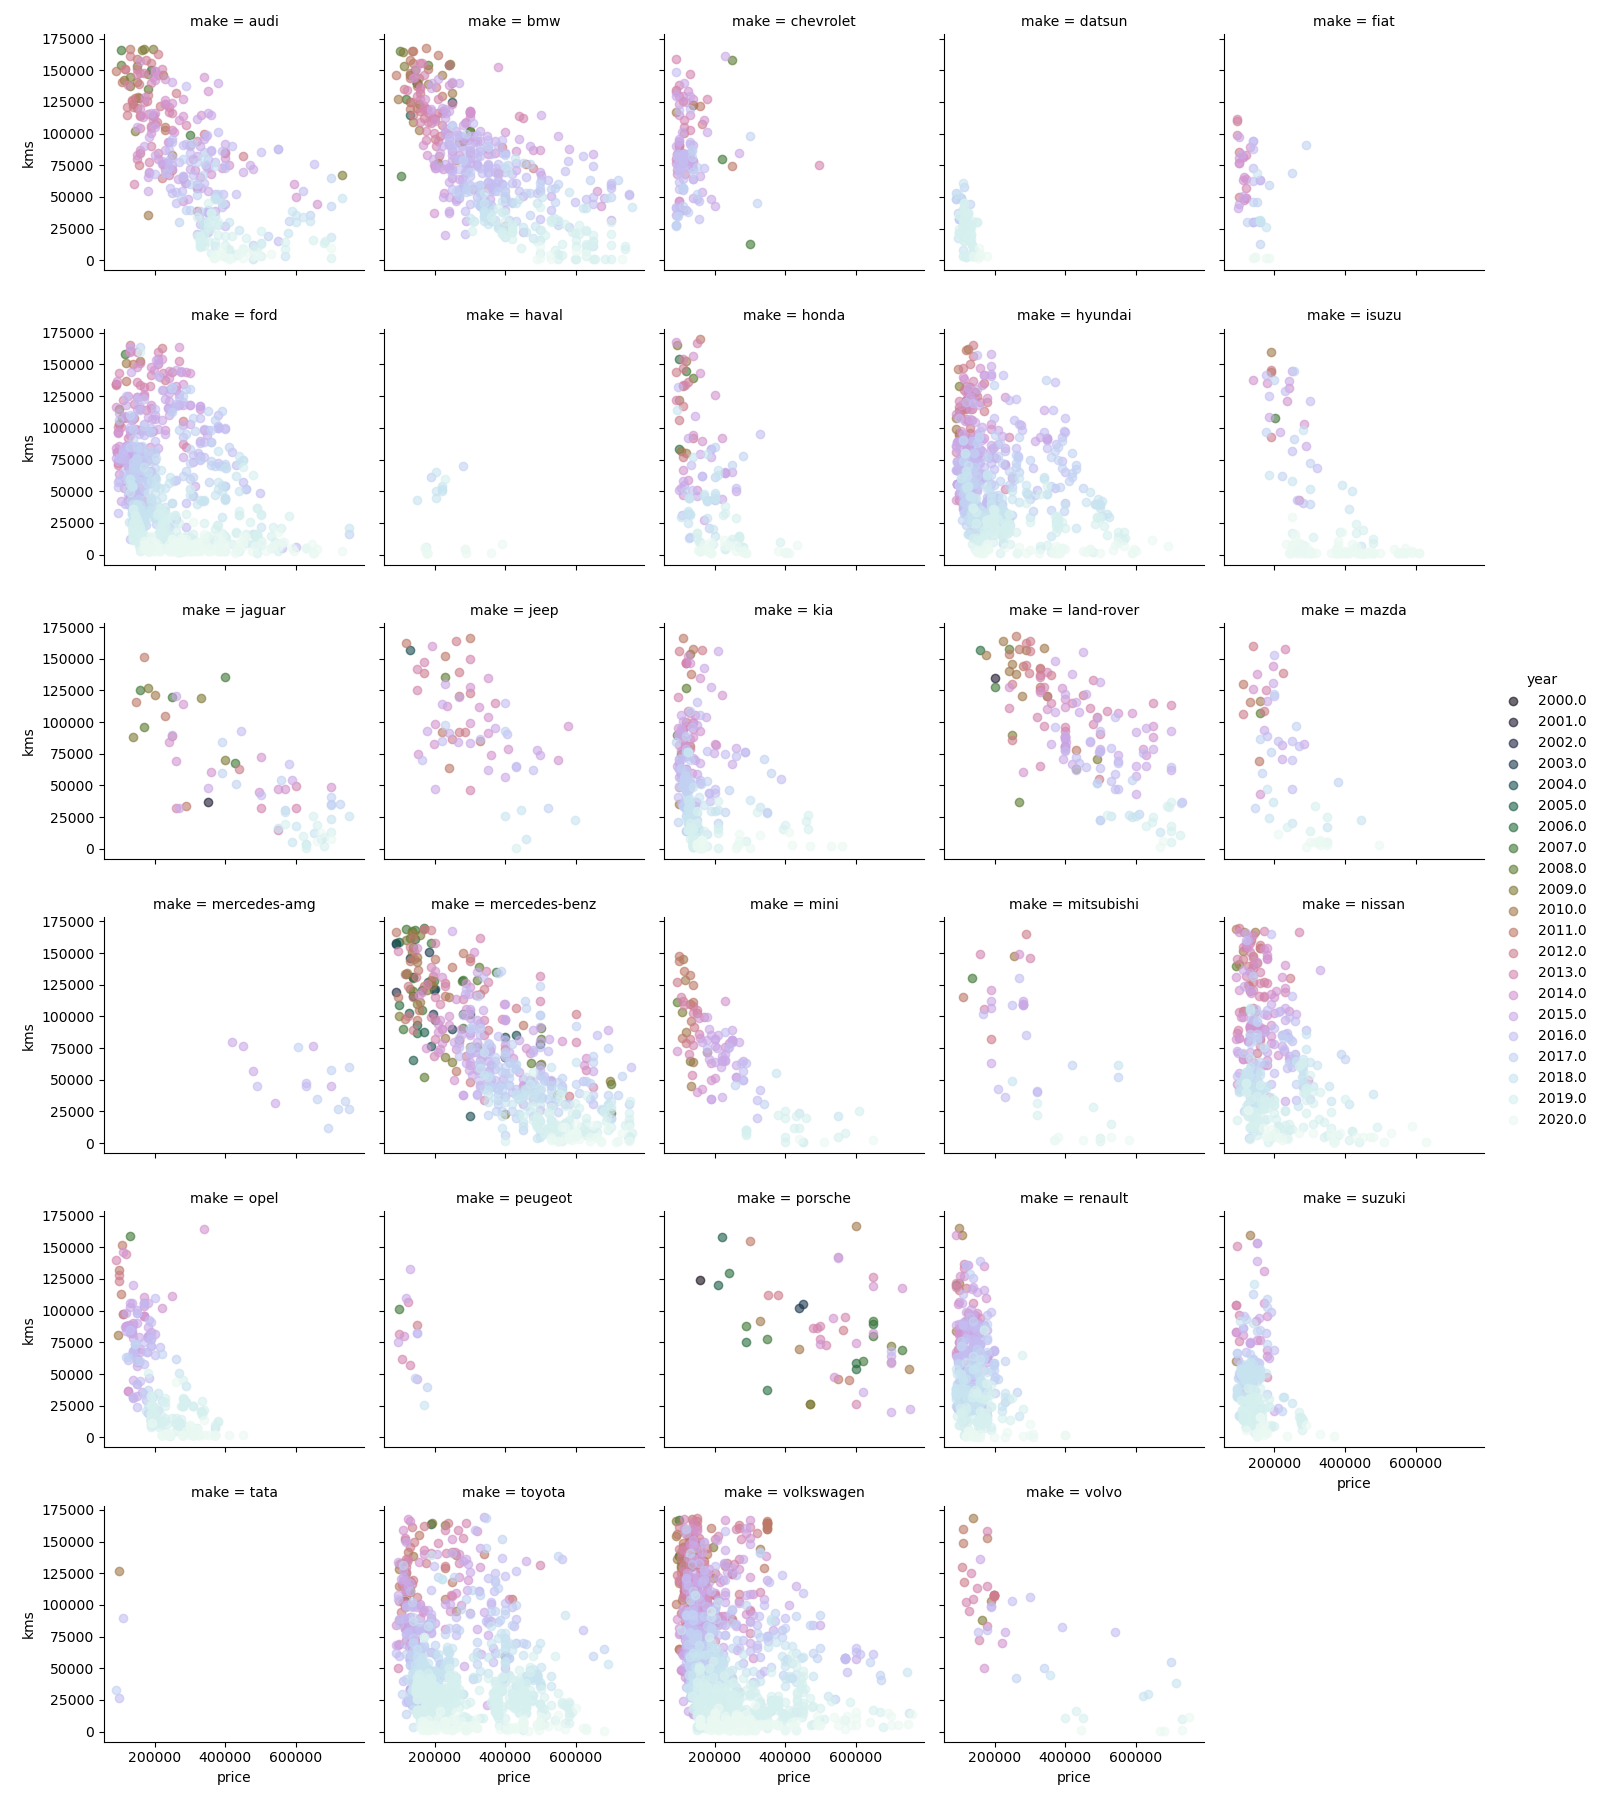
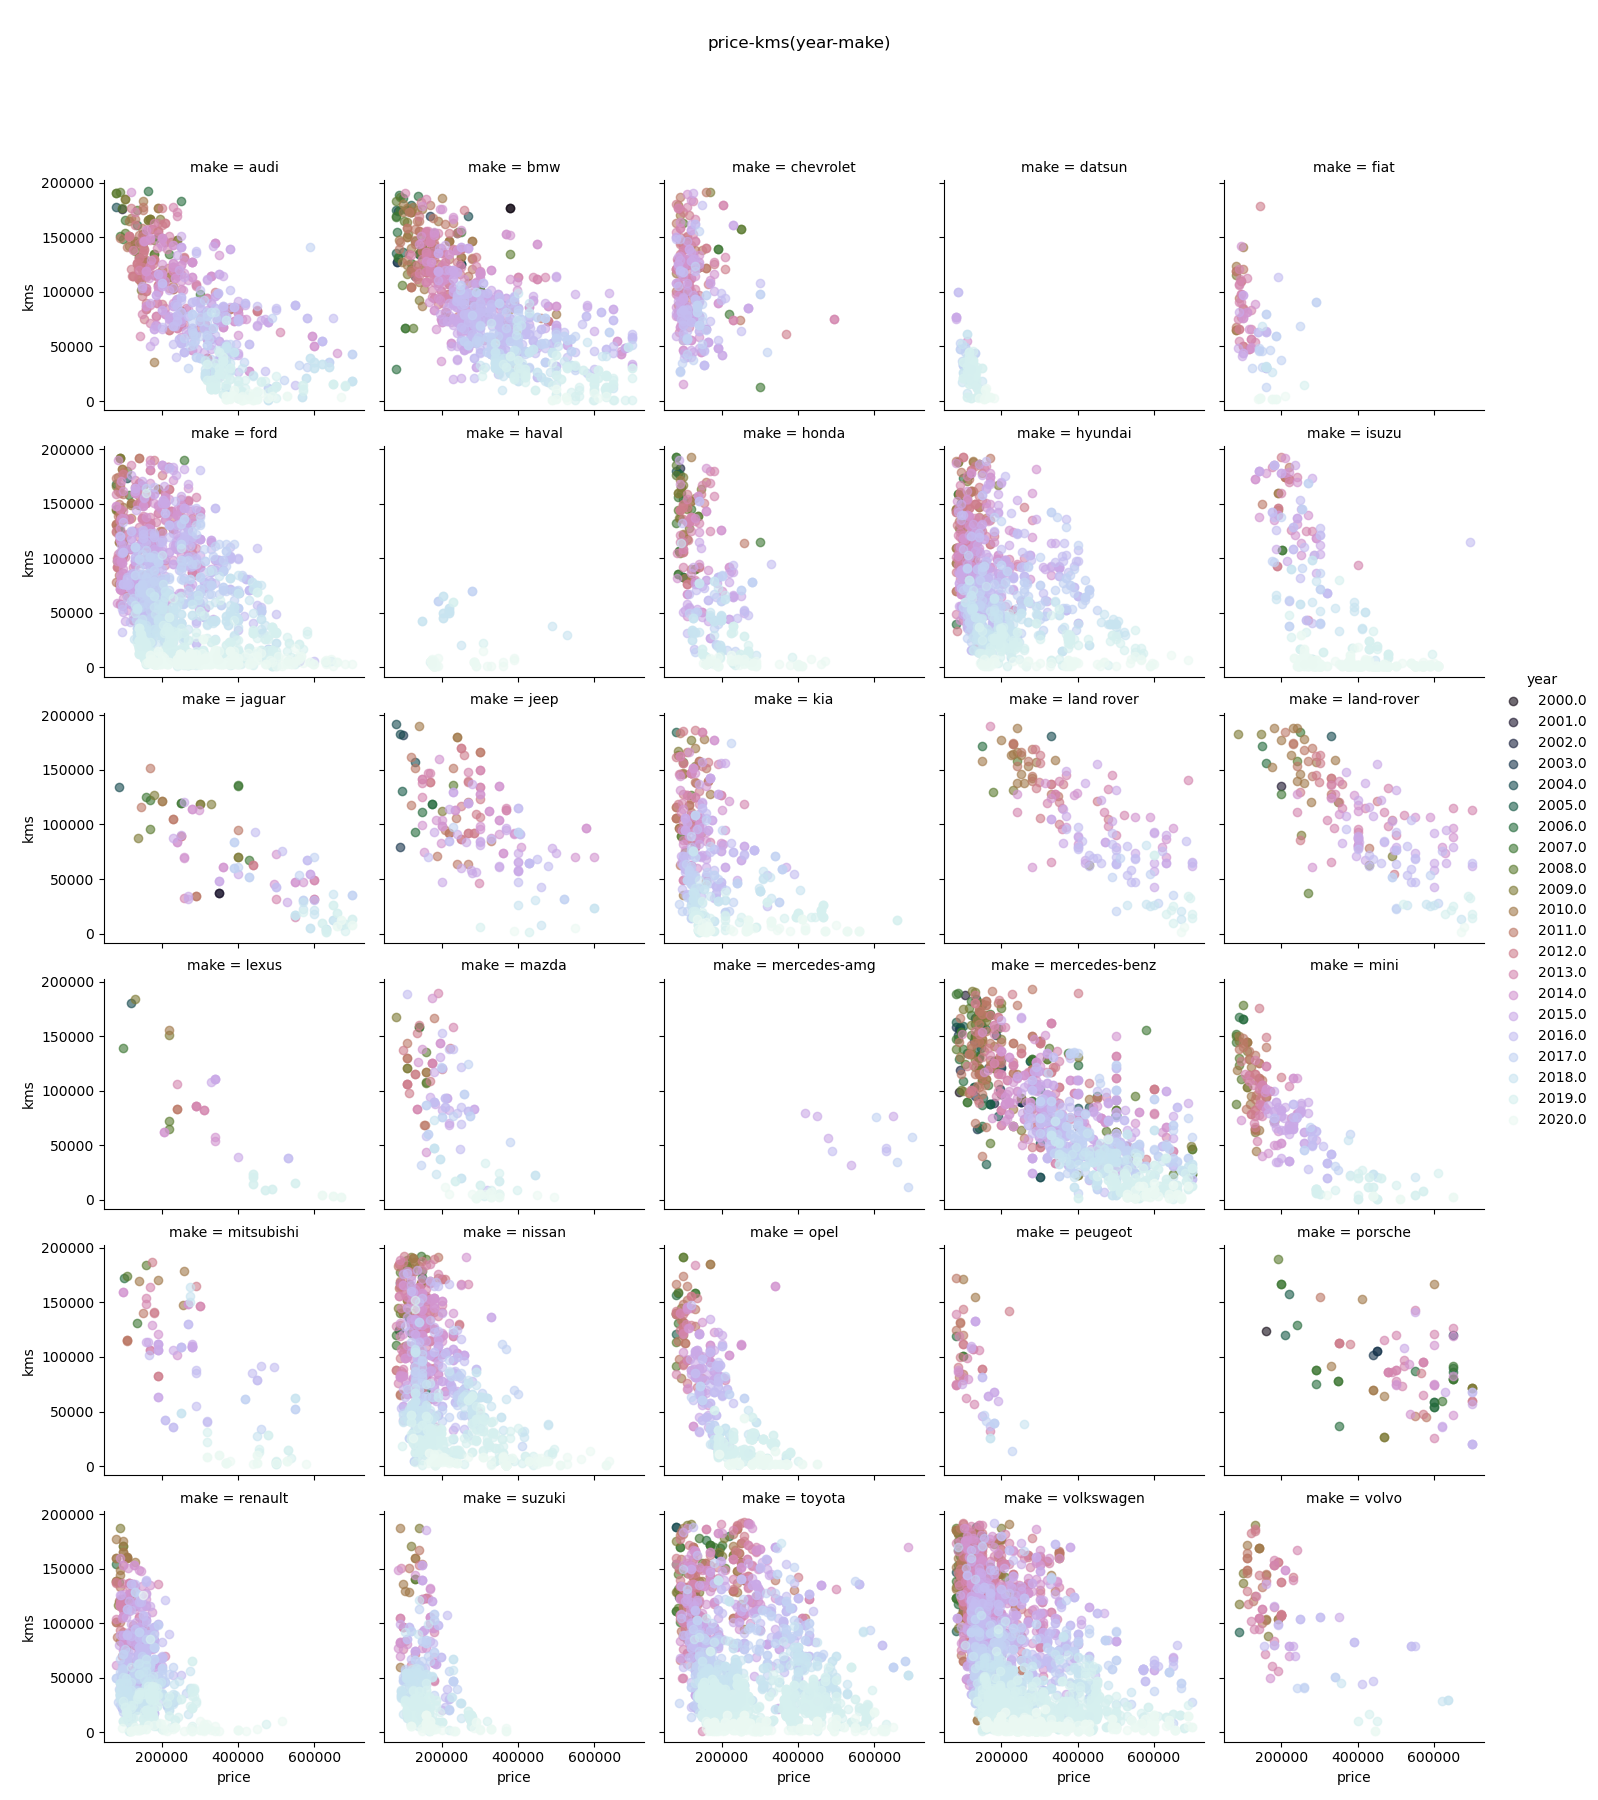
Readme changes

diff --git a/eda.py b/eda.py
@@ -26,7 +26,6 @@ print('done')
 
 def main():
     df = calc_derivatives(join_together(PICKLES))
-    # df = calc_derivatives(pd.read_pickle(PICKLE_PATH))
     low_zar, high_zar = df['price'].quantile([0.05, 0.95]).to_list()
     low_kms, high_kms = df['kms'].quantile([0.05, 0.95]).to_list()
     top_makes = df['make'].value_counts()[:30].index.to_list()
@@ -36,13 +35,13 @@ def main():
         (df.kms <= high_kms) &
         (df.kms >= low_kms) &
         (df.year >= 2000) &
-        (df['make'].isin(['mercedes-benz']))
+        (df['make'].isin(top_makes))
         ]
     df['year'] = df['year'].astype('category')
     x = 'price'
     y = 'kms'
     hue = 'year'
-    facet = 'model'
+    facet = 'make'
     df[facet] = df[facet].cat.remove_unused_categories()
     g = sns.FacetGrid(df, col=facet, col_wrap=5, palette='cubehelix', hue=hue)
     g.map(plt.scatter, x, y, alpha=0.6)
@@ -50,6 +49,8 @@ def main():
     plt.subplots_adjust(top=0.9)
     g.fig.suptitle(f'{x}-{y}({hue}-{facet})')
     plt.savefig(f'{x}-{y}({hue}-{facet})')
+
+    # df = df[df['price'] >= 1_000_000]
 
     # df.sort_values('price')[useful]
 
@@ -99,6 +100,55 @@ def plot_each_make():
             g.fig.suptitle(f'{make.title()})')
             plt.savefig(f'per_make/{make}-{x}-{y}({hue}-{facet})')
 
+def plot_expensive():
+    expensives = [
+        'jaguar',
+        'porsche',
+        'mercedes-amg',
+        'bmw',
+        'ferrari',
+        'mercedes-benz',
+    ]
+    df = calc_derivatives(join_together(PICKLES))
+    df = df[(df['make'].isin(expensives)) &
+            (df['kms'] <= 500_000)]
+    df['year'] = df['year'].astype('category')
+    x = 'price'
+    y = 'kms'
+    hue = 'year'
+    facet = 'make'
+    df[facet] = df[facet].cat.remove_unused_categories()
+    g = sns.FacetGrid(df, col=facet, col_wrap=2, palette='cubehelix', hue=hue)
+    g.map(plt.scatter, x, y, alpha=0.6)
+    g.add_legend()
+    plt.subplots_adjust(top=0.9)
+    g.fig.suptitle(f'{x}-{y}({hue}-{facet}) ZAR >= 1000000')
+    plt.savefig(f'{x}-{y}({hue}-{facet}) ZAR >= 1000000')
+
+def plot_heavy_duty():
+    makes = [
+        'isuzu',
+        'land-rover',
+        'land rover',
+        'jeep',
+    ]
+    df = calc_derivatives(join_together(PICKLES))
+    df = df[(df['make'].isin(makes)) &
+            (df['price'] <= 1_500_000 ) &
+            (df['kms'] <= 400_000 )
+            ]
+    df['year'] = df['year'].astype('category')
+    x = 'price'
+    y = 'kms'
+    hue = 'year'
+    facet = 'make'
+    df[facet] = df[facet].cat.remove_unused_categories()
+    g = sns.FacetGrid(df, col=facet, col_wrap=2, palette='cubehelix', hue=hue)
+    g.map(plt.scatter, x, y, alpha=0.6)
+    g.add_legend()
+    plt.subplots_adjust(top=0.9)
+    g.fig.suptitle(f'{x}-{y}({hue}-{facet}) heavy duty')
+    plt.savefig(f'price-kms(year-make)heavy_duty.png')
 
 def join_together(paths):
     dfs = []
@@ -125,26 +175,11 @@ def join_together(paths):
     df[categoricals] = df[categoricals].astype('category')
     return df
 
-
 def calc_derivatives(df):
     df['kms_per_year'] = df['kms'] / (2021 - df['year'])
     df['zar_100km'] = df['price'] * df['kms'] / 100.0
     return df
 
-
-def parse_variants():
-    variants = [str(variant).lower() for variant in df.variant.unique().to_list()]
-    numeric_variants = [variant for variant in variants if re.search(r'(v)?\d+(\.\d+)?(-l)?', variant)]
-    non_numeric_variants = [variant for variant in variants if not re.search(r'(v)?\d+(\.\d+)?(-l)?', variant)]
-    def assign_variant(title):
-        variants = [variant for variant in non_numeric_variants if re.search(f'\s+{variant}\s+')]
-        if not variants:
-            variants = [variant for variant in numeric_variants if variant in title.lower()]
-        if len(variants) > 1:
-            print(title, variants)
-        return variants[0] if variants else None
-
-    df['variant_parsed'] = df['title'].apply(assign_variant)
 
 
 if __name__ == '__main__':

diff --git a/README.md b/README.md
@@ -9,33 +9,104 @@ South African second hand cars market (with focus on the Western Cape),
 as well as exploratory scripts that look into price prediction (`ml.py`) or just exploratory
 data analysis of the collected data (`eda.py`). 
 
+Currently data is collected about 
+23 663 second hand cars for sale in the Western Cape.
+
 ## Graphs
 All extreme datapoints were omitted, to aid in the analysis 
 of the majority of the cars, and to ignore possible mistakes made
 when the car was put up on sale.
 ### Price vs Kilometers travelled, by make and year
-This one is fascinating. Most makes have the expected negative relationship, 
-(except _Porsche_, which seems to have no relationship).
+This one is fascinating. Most makes have the expected negative relationship,
+except for the luxury cars like _Porsche_:
 ![](price-kms(year-make).png)
+
+However, just looking at the luxury makes, it's pretty clear that they
+also heavily depreciate in value as they age, it's just that they're in
+a whole different ballgame in terms of price:
+![](price-kms(year-make)ZAR>=1000000.png)
+
+
+You can also see the heavy duty/4x4/off-road cars _really_ lose their value 
+once they're a few years old, probably because potential buyers are wary
+of the heavy use they could have been put through:
+![](price-kms(year-make)heavy_duty.png)
+
+
+### Price vs Kilometers travelled, by _model_ and year
+Looking a bit closer, we can examine how individual models from the
+same manufacturer depreciate over time:
+#### BMW
+![](per_make/bmw-price-kms(year-model).png)
+#### Ford
+![](per_make/ford-price-kms(year-model).png)
+#### Toyota
+![](per_make/toyota-price-kms(year-model).png)
+#### Volkswagen
+![](per_make/volkswagen-price-kms(year-model).png)
 
 
 ## Data summaries
 ```
+
+>>> df.info()
+<class 'pandas.core.frame.DataFrame'>
+RangeIndex: 23663 entries, 0 to 23662
+Data columns (total 18 columns):
+ #   Column        Non-Null Count  Dtype         
+---  ------        --------------  -----         
+ 0   date_updated  23663 non-null  datetime64[ns]
+ 1   fuel_type     20063 non-null  category      
+ 2   kms           23461 non-null  float64       
+ 3   link          23663 non-null  object        
+ 4   make          23609 non-null  category      
+ 5   mmv_string    23578 non-null  object        
+ 6   model         23605 non-null  category      
+ 7   price         23603 non-null  float64       
+ 8   title         23614 non-null  object        
+ 9   transmission  23556 non-null  category      
+ 10  uid           23663 non-null  int64         
+ 11  variant       9451 non-null   category      
+ 12  website       23663 non-null  category      
+ 13  year          23566 non-null  float64       
+ 14  color         14085 non-null  category      
+ 15  province      23663 non-null  category      
+ 16  kms_per_year  23459 non-null  float64       
+ 17  zar_100km     23450 non-null  float64       
+dtypes: category(8), datetime64[ns](1), float64(5), int64(1), object(3)
+memory usage: 2.1+ MB
+
+
 >>> df.describe(include='all') # Some columns omitted for brevity
-       fuel_type           kms        make  model         price  transmission                year  color   kms_per_year     zar_100km
-count      20063  2.346100e+04       23609  23605  2.360300e+04         23556    945123566.000000  14085   23459.000000  2.345000e+04
-unique         6           NaN          76    727           NaN             4     676         NaN    626            NaN           NaN
-top       petrol           NaN  volkswagen   polo           NaN        manual     1.6         NaN  white            NaN           NaN
-freq       14530           NaN        4232   1385           NaN         13468     567         NaN   5406            NaN           NaN
-first        NaN           NaN         NaN    NaN           NaN           NaN     NaN         NaN    NaN            NaN           NaN
-last         NaN           NaN         NaN    NaN           NaN           NaN     NaN         NaN    NaN            NaN           NaN
-mean         NaN  7.012052e+04         NaN    NaN  2.859403e+05           NaN     NaN 2015.576424    NaN   11928.153916  1.422336e+08
-std          NaN  7.052589e+04         NaN    NaN  3.039697e+05           NaN     NaN    4.874987    NaN    7612.631511  1.455108e+08
-min          NaN  0.000000e+00         NaN    NaN  1.300000e+01           NaN     NaN 1934.000000    NaN       0.000000  0.000000e+00
-25%          NaN  1.774500e+04         NaN    NaN  1.439000e+05           NaN     NaN 2014.000000    NaN    7087.533333  4.285221e+07
-50%          NaN  5.262400e+04         NaN    NaN  2.040000e+05           NaN     NaN 2017.000000    NaN   11750.000000  1.055120e+08
-75%          NaN  1.070000e+05         NaN    NaN  3.394950e+05           NaN     NaN 2019.000000    NaN   16000.000000  1.992581e+08
-max          NaN  2.430000e+06         NaN    NaN  8.999999e+06           NaN     NaN 2020.000000    NaN  203000.000000  4.223122e+09
+       fuel_type           kms        make  model         price  \
+count      20063  2.346100e+04       23609  23605  2.360300e+04  \
+unique         6           NaN          76    727           NaN  \
+top       petrol           NaN  volkswagen   polo           NaN  \
+freq       14530           NaN        4232   1385           NaN  \
+first        NaN           NaN         NaN    NaN           NaN  \
+last         NaN           NaN         NaN    NaN           NaN  \
+mean         NaN  7.012052e+04         NaN    NaN  2.859403e+05  \
+std          NaN  7.052589e+04         NaN    NaN  3.039697e+05  \
+min          NaN  0.000000e+00         NaN    NaN  1.300000e+01  \
+25%          NaN  1.774500e+04         NaN    NaN  1.439000e+05  \
+50%          NaN  5.262400e+04         NaN    NaN  2.040000e+05  \
+75%          NaN  1.070000e+05         NaN    NaN  3.394950e+05  \
+max          NaN  2.430000e+06         NaN    NaN  8.999999e+06  \
+
+       transmission                year  color   kms_per_year     zar_100km
+count         23556    945123566.000000  14085   23459.000000  2.345000e+04
+unique            4     676         NaN    626            NaN           NaN
+top          manual     1.6         NaN  white            NaN           NaN
+freq          13468     567         NaN   5406            NaN           NaN
+first           NaN     NaN         NaN    NaN            NaN           NaN
+last            NaN     NaN         NaN    NaN            NaN           NaN
+mean            NaN     NaN 2015.576424    NaN   11928.153916  1.422336e+08
+std             NaN     NaN    4.874987    NaN    7612.631511  1.455108e+08
+min             NaN     NaN 1934.000000    NaN       0.000000  0.000000e+00
+25%             NaN     NaN 2014.000000    NaN    7087.533333  4.285221e+07
+50%             NaN     NaN 2017.000000    NaN   11750.000000  1.055120e+08
+75%             NaN     NaN 2019.000000    NaN   16000.000000  1.992581e+08
+max             NaN     NaN 2020.000000    NaN  203000.000000  4.223122e+09
 
 >>> df.quantile([0.01, 0.05, 0.10, 0.5, 0.90, 0.95, 0.99])
            kms      price     year    kms / year  zar * 100km
